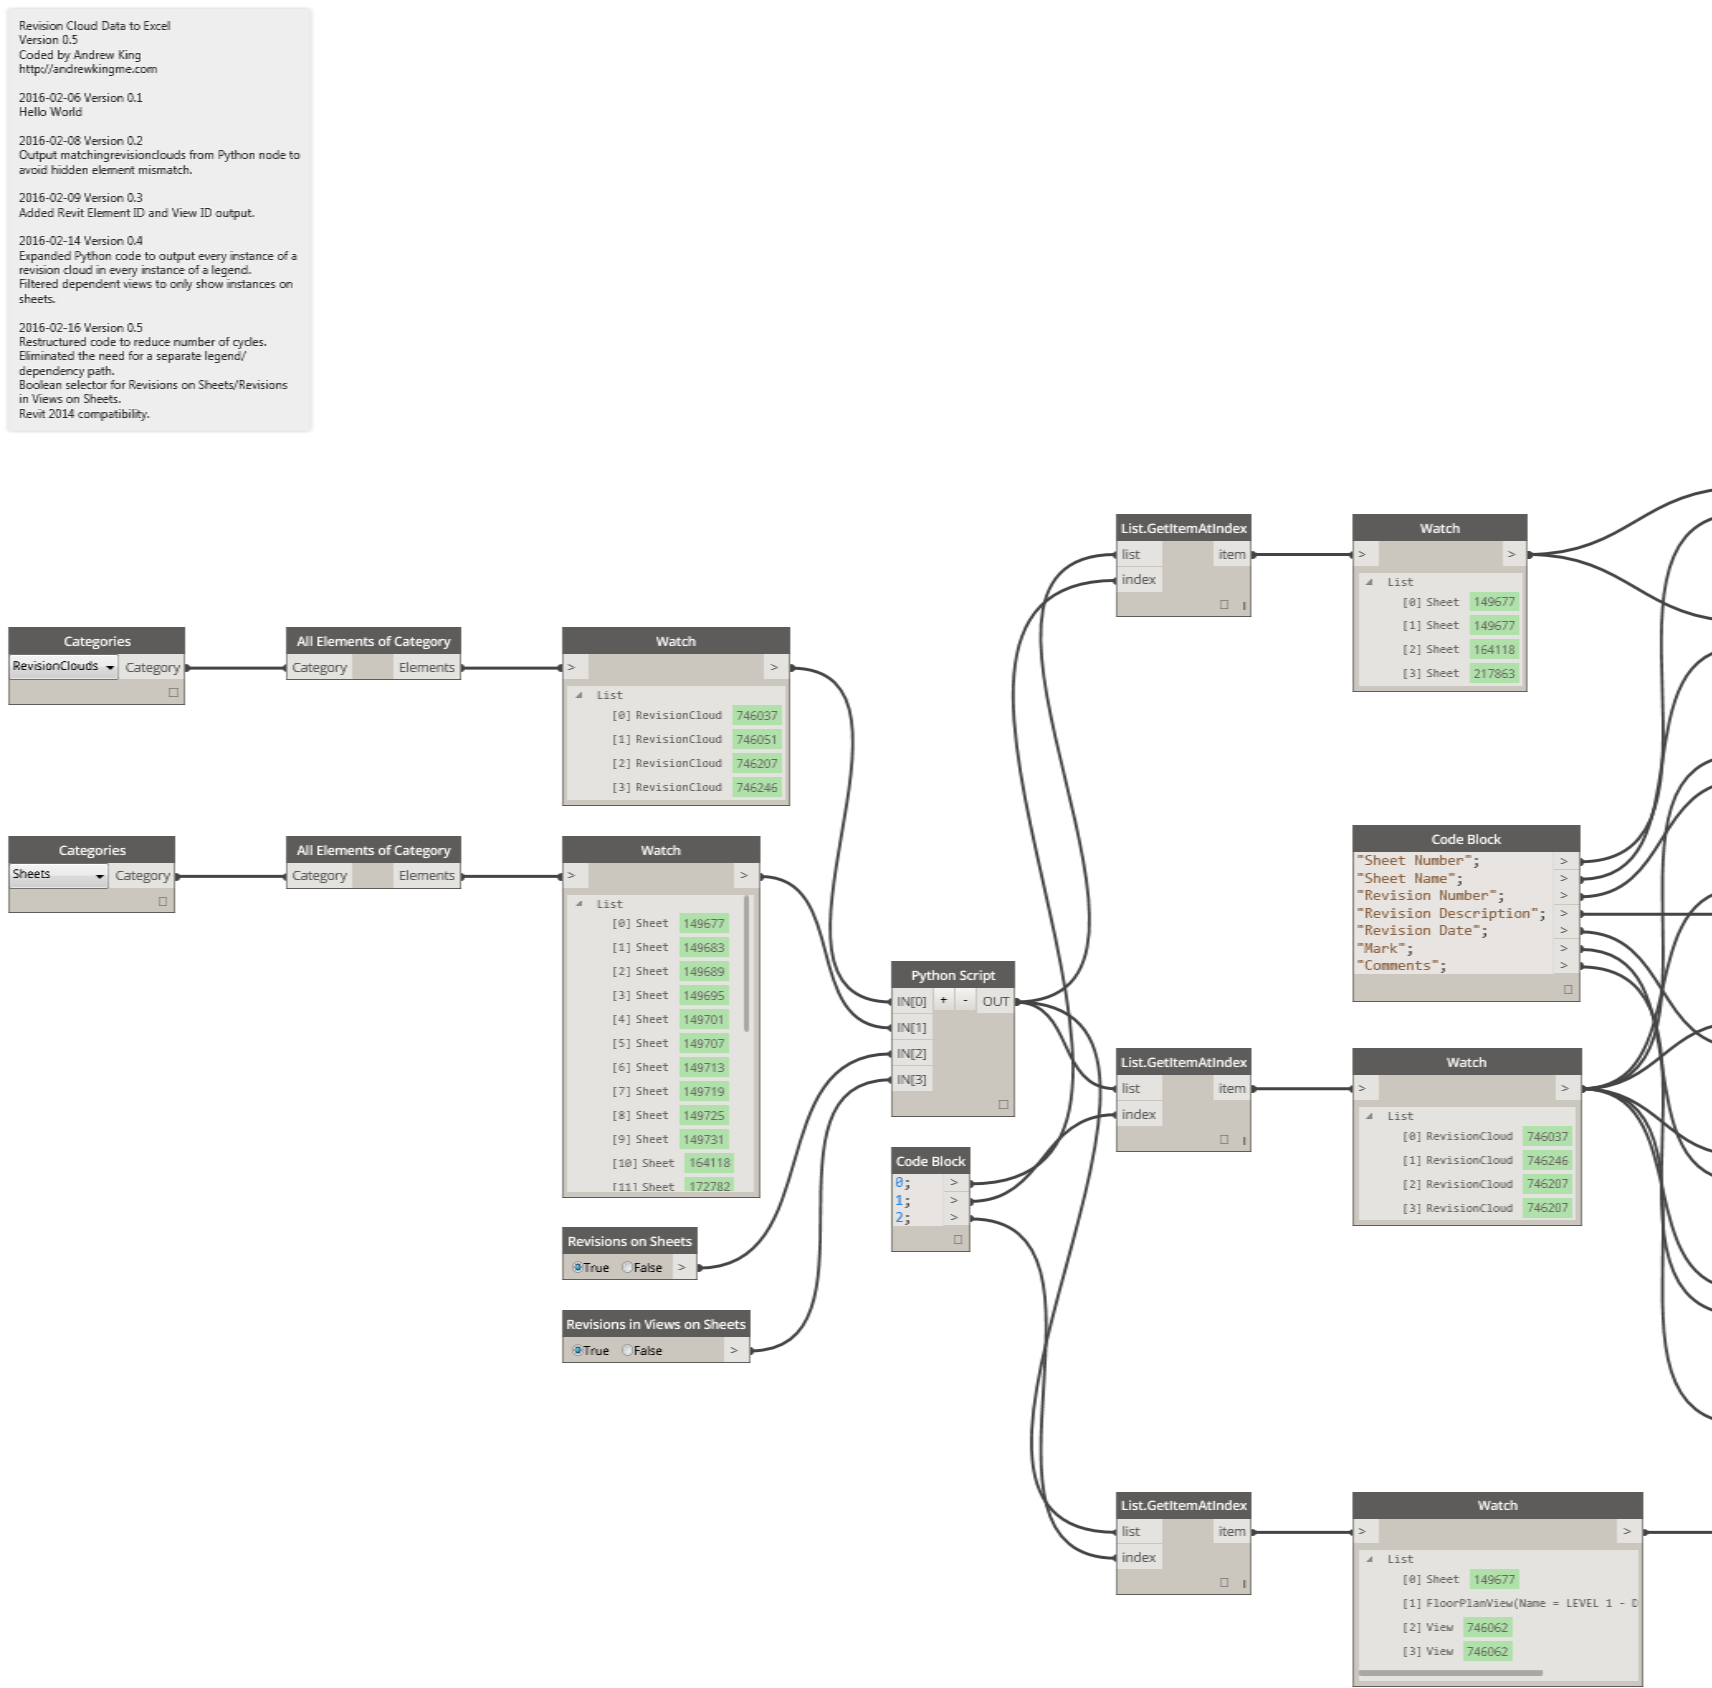
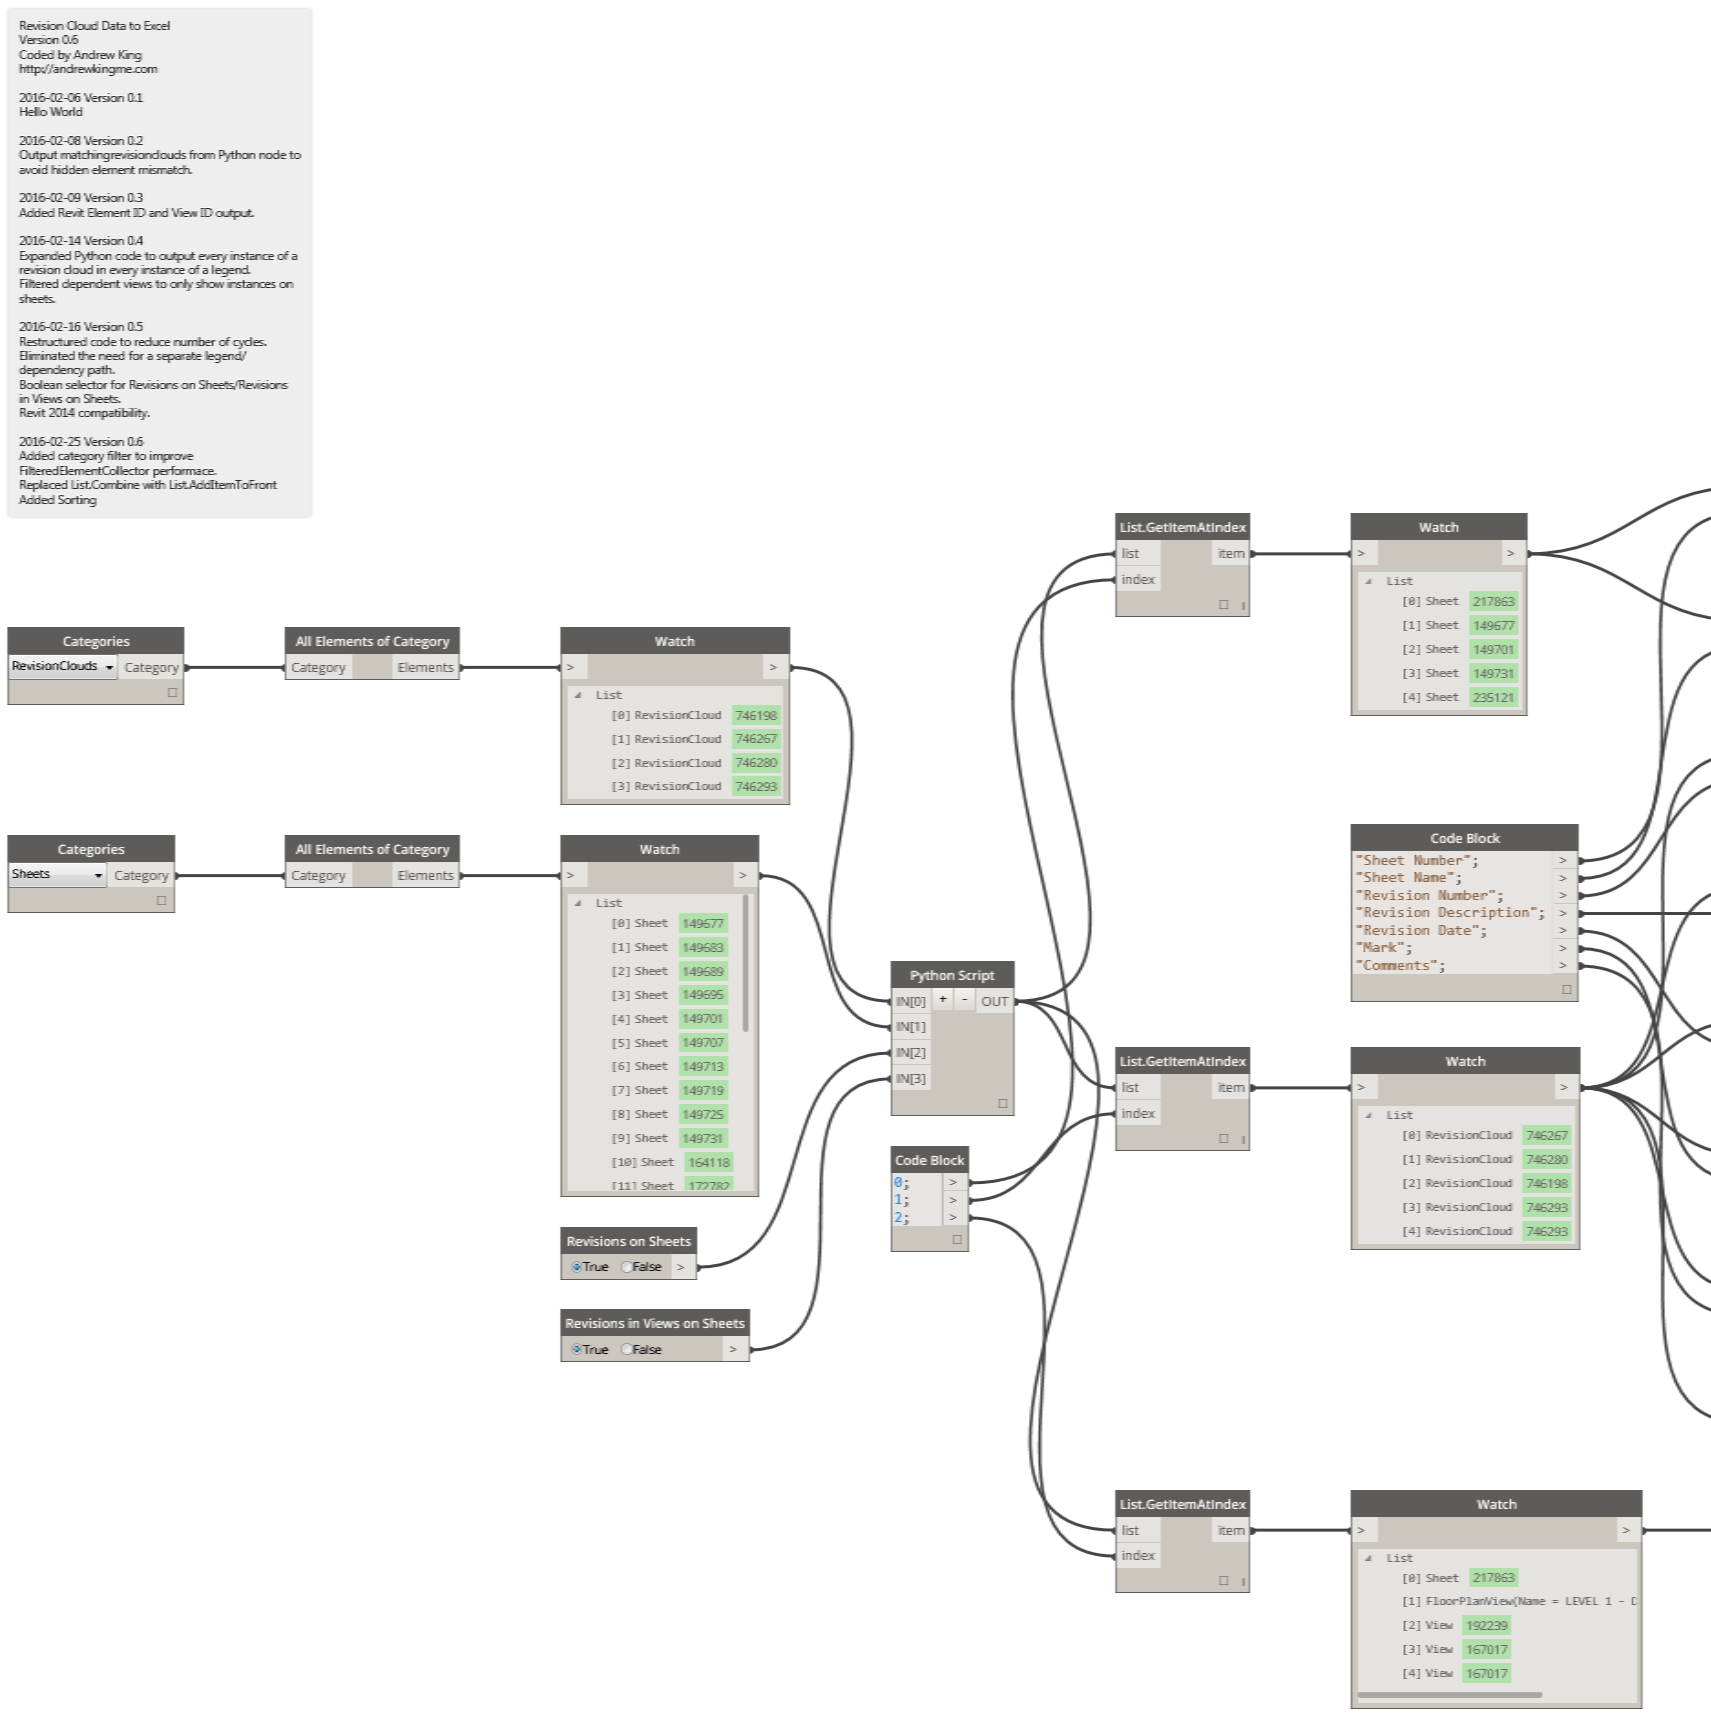
Update Post to Version 0.6

diff --git a/_work/Revit-Revision-Cloud-Data-to-Excel-via-Dynamo.md b/_work/Revit-Revision-Cloud-Data-to-Excel-via-Dynamo.md
@@ -13,7 +13,7 @@ tags:
   - python
 ---
 
-Scheduling revision clouds in Revit is limited. Revit can output the following built-in type parameters, but only these parameters and only within a title block family.
+Scheduling revision clouds in Revit is limited to the following built-in type parameters. In addition, a revision cloud schedule can only be placed in a title block family.
 
 <!--more-->
 
@@ -24,35 +24,35 @@ Scheduling revision clouds in Revit is limited. Revit can output the following b
 * Issued to
 * Issued by
 
-I needed a way to manage all construction administration phase revisions within Revit revision clouds and then regularly export an itemized list to Excel for distribution to the contrator. At a minimum, the Excel document would need to list the following.
+Our team wanted to manage all revision data within Revit revision clouds and regularly export a log to Excel for distribution to the contrator. At a minimum, the Excel document would need to list the following.
 
 * Sheet Number
 * Sheet Name
 * Revision Number
 * Revision Description
 * Revision Date
-* RFI/ASI/PR/CCD Number
-* Comments
+* Mark (For example, RFI 001) [Instance Parameter]
+* Comments [Instance Parameter]
 
-The solution: Dynamo.
+Revit can't do this out of the box, but Dynamo can!
 
-Using the following graph and custom Python code, I was able to extract the necesary data from Revit and push it to Excel.
+The following Dynamo definition and custom Python node extracts the relevant revision data from Revit and pushes it to Excel.
 
-### Dynamo Graph: Part 1
+### Dynamo Definition: Part 1
 
-Part 1 of the graph pulls in all of the revision clouds and sheets within the active document and runs the elements through a custom Python node. RFI/ASI/PR/CCD Numbers and Comments are pulled in as instance parameters so that every revision cloud can have a unique identifier and a unique comment.
+Part 1 of the definition pulls in all of the revision clouds and sheets within the active document and runs the elements through a custom Python node.
 
 {% include image.html image="Revit-Revision-Cloud-Data-to-Excel-via-Dynamo-001a.png" %}
 
 ### Custom Python Node
 
-Revit does not automatically report the Sheet Number or Sheet Name to a revision cloud parameter, so a custom Python node was required to match up the elements and views.
+The custom Python code below filters through sheets and views-on-sheets looking for revision clouds. For each match the code collects the revision cloud element, associated sheet, and referencing view.
 
 {% highlight python %}
 # Python Node for Dynamo
 # Input: Revision Clouds, Sheets
 # Output: Matching Sheets, Matching Revision Clouds, Referencing Views
-# Version 0.5
+# Version 0.6
 # Coded by Andrew King
 # http://andrewkingme.com
 # 
@@ -70,6 +70,9 @@ Revit does not automatically report the Sheet Number or Sheet Name to a revision
 # Eliminated the need for a separate legend/dependency path.
 # Boolean selector for Revisions on Sheets/Revisions in Views on Sheets.
 # Revit 2014 compatibility.
+#
+# 2016-02-25 Version 0.6
+# Added category filter to improve FilteredElementCollector performace.
 
 import clr
 clr.AddReference('ProtoGeometry')
@@ -86,7 +89,7 @@ import RevitServices
 from RevitServices.Persistence import DocumentManager
 from RevitServices.Transactions import TransactionManager
 
-# Assign input to the IN variables.
+#Assign input to the IN variables.
 revisioncloudinput = UnwrapElement(IN[0])
 sheetinput = UnwrapElement(IN[1])
 revisionsonsheets = IN[2]
@@ -96,53 +99,53 @@ matchingsheets = []
 matchingrevisionclouds = []
 referencingviews = []
 
-# Look for revision clouds on sheets.
+#Look for revision clouds on sheets.
 if revisionsonsheets == True:
-	for sheet in sheetinput:
-		for sheetelement in FilteredElementCollector(DocumentManager.Instance.CurrentDBDocument, sheet.Id):
-			for revisioncloud in revisioncloudinput:
-				if sheetelement.Id == revisioncloud.Id:
-					matchingsheets.append(sheet)
-					matchingrevisionclouds.append(revisioncloud)
-					referencingviews.append(sheet)
+    for sheet in sheetinput:
+        for sheetelement in FilteredElementCollector(DocumentManager.Instance.CurrentDBDocument, sheet.Id).OfCategory(BuiltInCategory.OST_RevisionClouds):
+            for revisioncloud in revisioncloudinput:
+                if sheetelement.Id == revisioncloud.Id:
+                    matchingsheets.append(sheet)
+                    matchingrevisionclouds.append(revisioncloud)
+                    referencingviews.append(sheet)
 
-# Look for revision clouds in views on sheets.
+#Look for revision clouds in views on sheets.
 if revisionsinviewsonsheets == True:
-	for sheet in sheetinput:
-		if DocumentManager.Instance.CurrentUIApplication.Application.VersionName == "Autodesk Revit 2014":
-			for viewport in sheet.GetAllViewports():
-				for view in [DocumentManager.Instance.CurrentDBDocument.GetElement(viewport)]:
-					for viewid in [DocumentManager.Instance.CurrentDBDocument.GetElement(view.ViewId)]:
-						for viewelement in FilteredElementCollector(DocumentManager.Instance.CurrentDBDocument, viewid.Id):
-							for revisioncloud in revisioncloudinput:
-								if viewelement.Id == revisioncloud.Id:
-									matchingsheets.append(sheet)
-									matchingrevisionclouds.append(revisioncloud)
-									referencingviews.append(viewid)
-		else:
-			for viewport in sheet.GetAllPlacedViews():
-				for view in [DocumentManager.Instance.CurrentDBDocument.GetElement(viewport)]:
-					for viewelement in FilteredElementCollector(DocumentManager.Instance.CurrentDBDocument, view.Id):
-						for revisioncloud in revisioncloudinput:
-							if viewelement.Id == revisioncloud.Id:
-								matchingsheets.append(sheet)
-								matchingrevisionclouds.append(revisioncloud)
-								referencingviews.append(view)
+    for sheet in sheetinput:
+        if DocumentManager.Instance.CurrentUIApplication.Application.VersionName == "Autodesk Revit 2014":
+            for viewport in sheet.GetAllViewports():
+                for view in [DocumentManager.Instance.CurrentDBDocument.GetElement(viewport)]:
+                    for viewid in [DocumentManager.Instance.CurrentDBDocument.GetElement(view.ViewId)]:
+                        for viewelement in FilteredElementCollector(DocumentManager.Instance.CurrentDBDocument, viewid.Id).OfCategory(BuiltInCategory.OST_RevisionClouds):
+                            for revisioncloud in revisioncloudinput:
+                                if viewelement.Id == revisioncloud.Id:
+                                    matchingsheets.append(sheet)
+                                    matchingrevisionclouds.append(revisioncloud)
+                                    referencingviews.append(viewid)
+        else:
+            for viewport in sheet.GetAllPlacedViews():
+                for view in [DocumentManager.Instance.CurrentDBDocument.GetElement(viewport)]:
+                    for viewelement in FilteredElementCollector(DocumentManager.Instance.CurrentDBDocument, view.Id).OfCategory(BuiltInCategory.OST_RevisionClouds):
+                        for revisioncloud in revisioncloudinput:
+                            if viewelement.Id == revisioncloud.Id:
+                                matchingsheets.append(sheet)
+                                matchingrevisionclouds.append(revisioncloud)
+                                referencingviews.append(view)
 
-# Assign output to the OUT variable.
+#Assign output to the OUT variable.
 OUT = matchingsheets, matchingrevisionclouds, referencingviews
 {% endhighlight %}
 
-### Dynamo Graph: Part 2
+### Dynamo Definition: Part 2
 
-Part 2 of the graph extracts the relevant parameter values, builds an itemized list, and sends it to Excel.
+Part 2 of the definition extracts the relevant parameter values, builds an itemized list, sorts the list, and sends it to Excel.
 
 {% include image.html image="Revit-Revision-Cloud-Data-to-Excel-via-Dynamo-001b.png" %}
 
-### Complete Dynamo Graph
+### Complete Dynamo Definition
 
-Here it is all together. Simple, efficient output of relevant revision cloud data.
+Here it is all together. Simple, efficient output of Revit revision cloud data.
 
 {% include image.html image="Revit-Revision-Cloud-Data-to-Excel-via-Dynamo-001.png" %}
 
-*Post updated to reflect Version 0.5 on 16 Feb 2016.*
+*Post updated to reflect Version 0.6 on 25 Feb 2016.*
